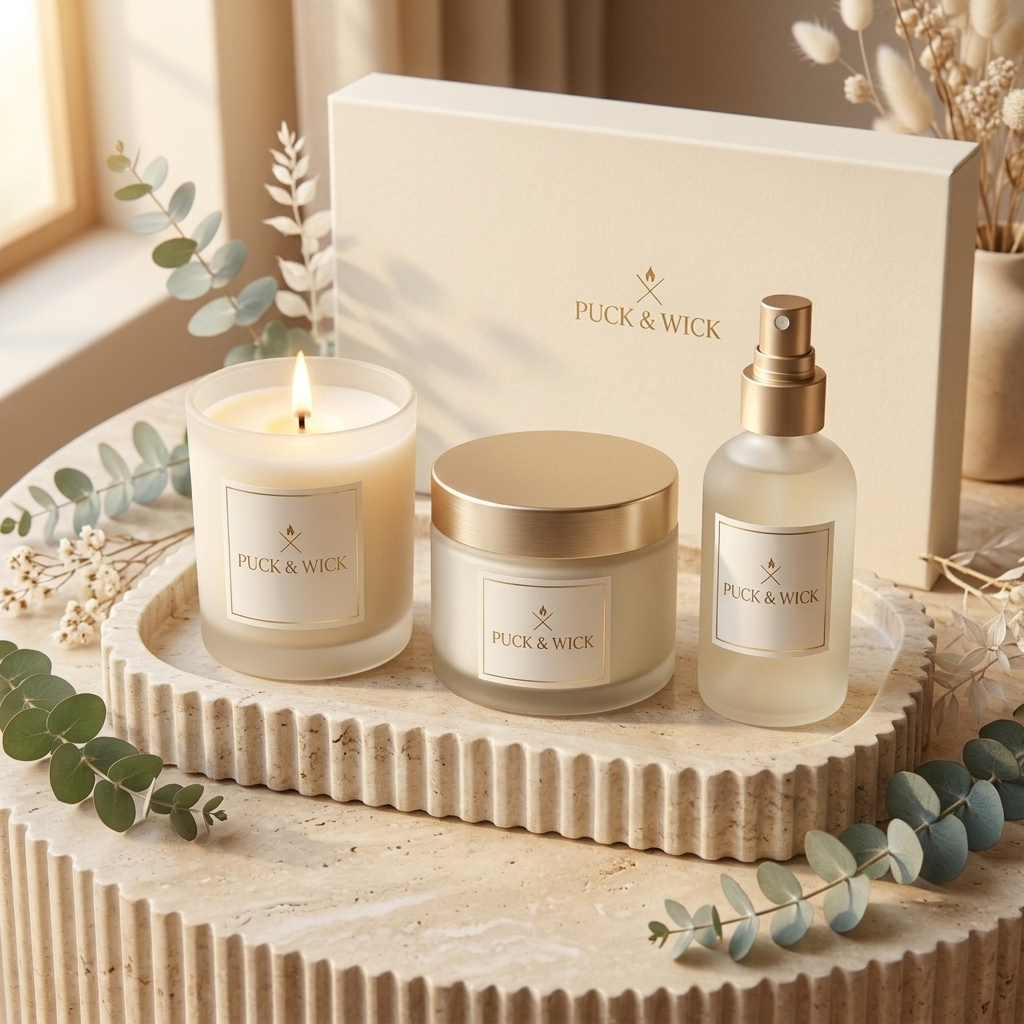
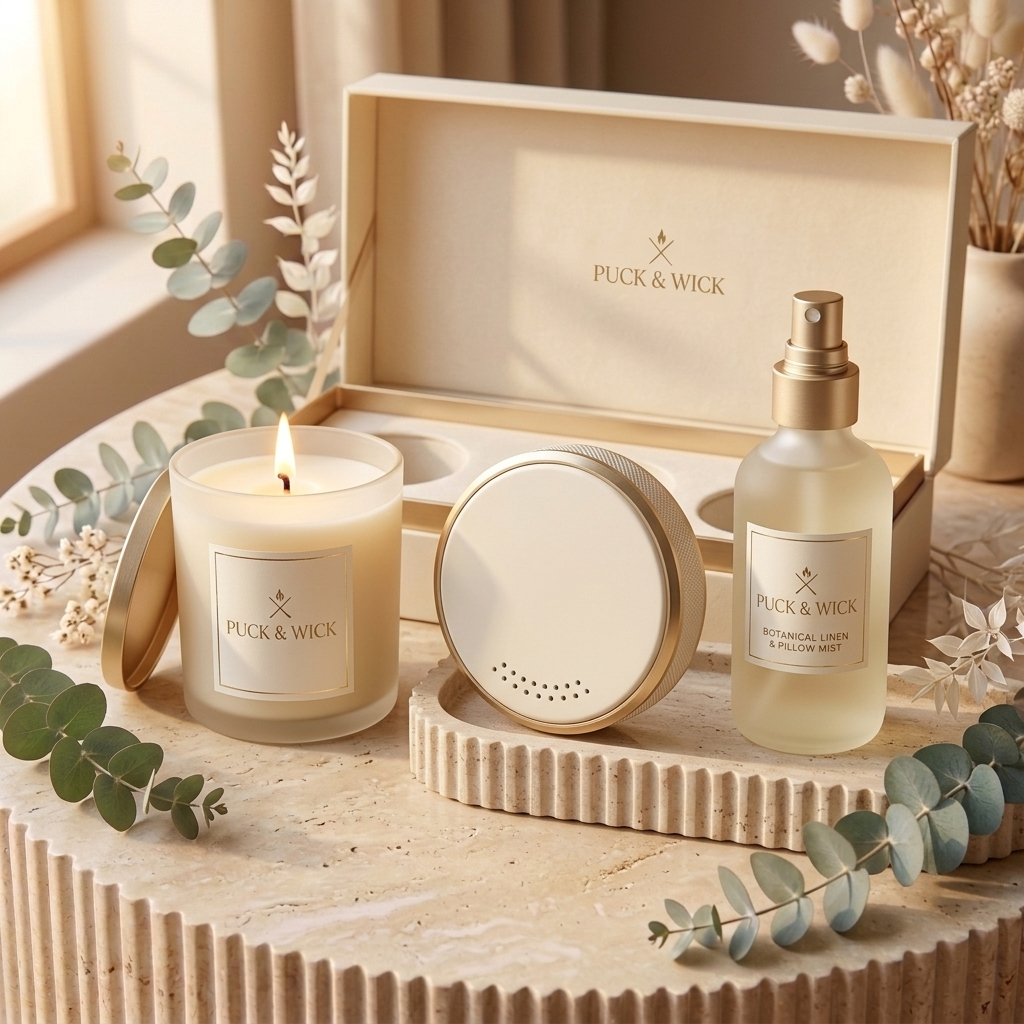
Remove Shea Butter cream, focus Women's Sanctuary on 3.0in White/Ivory Puck in Yoga Bag & Closet, separate individual puck galleries from Exclusive Box lineups (v30)

diff --git a/js/data/products.js b/js/data/products.js
@@ -301,31 +301,31 @@ export const PRODUCTS = [
   },
   {
     id: 'puck-womens-sanctuary',
-    name: "Women's Sanctuary Closet & Tote Puck",
-    tagline: '3.0" Warm Ivory & Champagne-Gold Disc. Activated Coconut Carbon + Lauson-98™.',
+    name: "Women's Sanctuary Workout Tote & Closet Puck",
+    tagline: '3.0" Warm Ivory/White & Champagne-Gold Disc. For Yoga Bags, Gym Totes & Closets.',
     price: 44.00,
     formattedPrice: '$44.00',
     category: ['womens', 'odor_care'],
     productType: 'odor_care',
     genderLine: 'womens',
     genderLabel: 'WOMENS',
-    specUnitLabel: '3.0" Closet Puck',
+    specUnitLabel: '3.0" Sanctuary Puck',
     burnTime: '6+ Months Active',
     weightOz: 4,
     vessel: '3.0" Warm Matte Alabaster-Ivory Anodized Aluminum with Brushed Champagne-Gold Bezel',
     wax: 'Sub-2nm Coconut Charcoal (>1,000 m²/g) + Lauson-98™ Molecular Core (40g Fill)',
     wick: 'Laser-Drilled 18-Port Vapor Diffusion Vent Array',
-    description: 'Designed in our signature Warm Alabaster-Ivory and Brushed Champagne-Gold finish for walk-in closets, Pilates & yoga totes, handbag shelves, and luxury car interiors. Built with the exact same sub-2nm activated coconut carbon (>1,000 m²/g) and proprietary Lauson-98™ vapor-phase complex as our Athlete Puck to permanently neutralize odors without masking perfumes.',
+    description: 'Tailored in our signature Warm Alabaster-Ivory/White and Brushed Champagne-Gold finish for women’s yoga & Pilates workout bags, gym totes, running sneaker shelves, and walk-in closets. Built with the exact same sub-2nm activated coconut carbon (>1,000 m²/g) and proprietary Lauson-98™ vapor-phase complex as our Athlete Puck to permanently eliminate workout and fabric odors with zero masking perfumes.',
     notes: {
       top: ['Lauson-98™ Vapor-Phase Complex', 'Zero Masking Perfumes', 'Hypoallergenic'],
       middle: ['Sub-2nm Activated Coconut Carbon', '>1,000 m²/g Micropore Lattice'],
-      base: ['Destroys Deep Closet & Tote Odor', '6+ Months Continuous Protection']
+      base: ['Yoga Totes, Gym Bags & Closets', '6+ Months Continuous Protection']
     },
     featured: true,
     seasonal: false,
     vesselType: 'ivory',
     photo: 'assets/images/item-puck-women.jpg',
-    subSpecText: '3.0" WARM IVORY PUCK • LAUSON-98™ + CARBON',
+    subSpecText: '3.0" WARM IVORY PUCK • YOGA TOTES & CLOSETS',
     waxSpecSub: 'Lauson-98™ + Carbon Matrix',
     accentColor: '#E5C878'
   },
@@ -390,36 +390,6 @@ export const PRODUCTS = [
     accentColor: '#C5A059'
   },
   {
-    id: 'butter-womens-shea',
-    name: 'Whipped Shea & Cashmere Body Butter',
-    tagline: 'Sanctuary Skin Restoration (6 oz Jar). Triple-Whipped Shea, Jojoba & Santal.',
-    price: 44.00,
-    formattedPrice: '$44.00',
-    category: ['womens', 'odor_care'],
-    productType: 'odor_care',
-    genderLine: 'womens',
-    genderLabel: 'WOMENS',
-    specUnitLabel: '6 oz Glass Jar',
-    burnTime: '6 oz (170 g)',
-    weightOz: 6,
-    vessel: '6 oz Frosted Warm Ivory Wide-Mouth Glass Jar with Champagne-Gold Lid',
-    wax: 'Triple-Whipped Unrefined Shea Butter + Cold-Pressed Golden Jojoba',
-    wick: 'Non-Greasy Cloud Emulsion • Paraben & Phthalate Free',
-    description: 'An ultra-rich, cloud-whipped body butter that melts effortlessly into warm post-shower skin. Crafted with unrefined grade-A shea butter, golden jojoba esters, and vitamin E, scented with our serene Sanctuary notes of white tea bud, spun cashmere, Madagascar vanilla bean, and creamy sandalwood.',
-    notes: {
-      top: ['Sicilian Bergamot Zest', 'White Tea Bud', 'Spun Silk Accord'],
-      middle: ['Warm Cashmere Musk', 'Jasmine Grandiflorum', 'Whipped Shea Cream'],
-      base: ['Madagascar Vanilla Bean', 'Australian Sandalwood', 'Golden Amber']
-    },
-    featured: true,
-    seasonal: false,
-    vesselType: 'ivory',
-    photo: 'assets/images/item-bodybutter-women.jpg',
-    subSpecText: '6 OZ FROSTED IVORY JAR • TRIPLE-WHIPPED SHEA',
-    waxSpecSub: 'Whipped Shea & Jojoba',
-    accentColor: '#E5C878'
-  },
-  {
     id: 'mist-womens-linen',
     name: 'Sanctuary Botanical Linen & Pillow Mist',
     tagline: 'Fine-Mist Atomizer (4 fl oz). Lauson-98™ Fabric Refresher & White Lavender.',
@@ -435,13 +405,13 @@ export const PRODUCTS = [
     vessel: '4 oz Frosted Warm Ivory Glass Bottle with Brushed Champagne-Gold Atomizer',
     wax: 'Botanical Hydrosol Base + Lauson-98™ Molecular Fabric Neutralizer',
     wick: 'Non-Staining Micro-Mist Spray • Safe for Linen, Cashmere & Silk',
-    description: 'Transform bedrooms, walk-in closets, cashmere knits, and travel totes into a five-star sanctuary. Powered by our proprietary Lauson-98™ molecular complex to permanently neutralize fabric odors while leaving a delicate veil of crushed French lavender leaf, white orchid, and sun-bleached driftwood.',
+    description: 'Transform bedrooms, walk-in closets, cashmere knits, and workout totes into a five-star sanctuary. Powered by our proprietary Lauson-98™ molecular complex to permanently neutralize fabric odors while leaving a delicate veil of crushed French lavender leaf, white orchid, and sun-bleached driftwood.',
     notes: {
       top: ['Crushed French Lavender Leaf', 'Petitgrain', 'Lemon Verbena'],
       middle: ['Night-Blooming White Orchid', 'Eucalyptus Dew', 'Sheer Magnolia'],
       base: ['Sun-Bleached Driftwood', 'Ambrette Seed', 'Lauson-98™ Fabric Neutralizer']
     },
-    featured: false,
+    featured: true,
     seasonal: false,
     vesselType: 'ivory',
     photo: 'assets/images/item-mist-women.jpg',
@@ -611,30 +581,70 @@ export function getProductGallerySlides(product, conceptId = 1) {
     ];
   }
 
-  // Other Odor Care & Sanctuary Items
+  if (product.id === 'puck-mens-athlete') {
+    return [
+      {
+        id: 'primary',
+        shortLabel: 'Studio Puck',
+        title: '3.0" Athlete Gear & Locker Puck — Matte-Black & Gold Anodized Hardware',
+        type: 'svg',
+        thumb: primaryPhoto
+      },
+      {
+        id: 'gym_bag',
+        shortLabel: 'In Gear Bag',
+        title: '3.0" Athlete Puck — Drop Directly Into Your Hockey or Gym Duffel Bag',
+        type: 'image',
+        src: 'assets/images/packaging/puck-men-gym-bag.jpg',
+        thumb: 'assets/images/packaging/puck-men-gym-bag.jpg'
+      },
+      {
+        id: 'locker',
+        shortLabel: 'In Locker',
+        title: '3.0" Athlete Puck — Continuous 6+ Month Odor Elimination in Lockers & Closets',
+        type: 'image',
+        src: 'assets/images/packaging/puck-men-locker.jpg',
+        thumb: 'assets/images/packaging/puck-men-locker.jpg'
+      }
+    ];
+  }
+
+  if (product.id === 'puck-womens-sanctuary') {
+    return [
+      {
+        id: 'primary',
+        shortLabel: 'White Puck',
+        title: '3.0" Women’s Sanctuary Puck — Warm Ivory/White & Champagne-Gold Hardware',
+        type: 'svg',
+        thumb: primaryPhoto
+      },
+      {
+        id: 'yoga_bag',
+        shortLabel: 'Yoga & Gym Tote',
+        title: '3.0" Sanctuary Puck — Tuck Into Your Yoga, Pilates, or Workout Tote Bag',
+        type: 'image',
+        src: 'assets/images/packaging/puck-women-yoga-bag.jpg',
+        thumb: 'assets/images/packaging/puck-women-yoga-bag.jpg'
+      },
+      {
+        id: 'closet',
+        shortLabel: 'Closet & Shoes',
+        title: '3.0" Sanctuary Puck — Fresh Protection for Walk-In Closets & Athletic Sneakers',
+        type: 'image',
+        src: 'assets/images/packaging/puck-women-closet.jpg',
+        thumb: 'assets/images/packaging/puck-women-closet.jpg'
+      }
+    ];
+  }
+
+  // Individual Body Wash or Botanical Mist (Focused strictly on the single bottle)
   return [
     {
       id: 'primary',
       shortLabel: 'Studio View',
-      title: `${product.name} — Studio Hardware & Apothecary View`,
+      title: `${product.name} — Individual Full-Size Bottle`,
       type: 'svg',
       thumb: primaryPhoto
-    },
-    {
-      id: 'in_action',
-      shortLabel: 'In Action',
-      title: `${product.name} — Daily Ritual & Gear Action`,
-      type: 'image',
-      src: isIvory ? 'assets/images/box-women-usecase.jpg' : 'assets/images/box-men-usecase.jpg',
-      thumb: isIvory ? 'assets/images/box-women-usecase.jpg' : 'assets/images/box-men-usecase.jpg'
-    },
-    {
-      id: 'collection',
-      shortLabel: 'Full Lineup',
-      title: `${product.name} — Complete Exclusive Box Lineup`,
-      type: 'image',
-      src: isIvory ? 'assets/images/box-women-items-out.jpg' : 'assets/images/box-men-items-out.jpg',
-      thumb: isIvory ? 'assets/images/box-women-items-out.jpg' : 'assets/images/box-men-items-out.jpg'
     }
   ];
 }

diff --git a/index.html b/index.html
@@ -18,7 +18,7 @@
   <meta property="og:site_name" content="Puck &amp; Wick&trade;">
   <meta property="og:url" content="https://puckandwick.com/">
   <meta property="og:title" content="Puck &amp; Wick&trade; | Artisan Soy Candles &amp; Lauson-98&trade; Odor Care">
-  <meta property="og:description" content="Small-batch Virginia soy candles, Sanctuary whipped body care, and Lauson-98™ + Activated Charcoal molecular odor elimination. Founded in Loudoun County, VA.">
+  <meta property="og:description" content="Small-batch Virginia soy candles, Men's &amp; Women's Lauson-98™ + Activated Charcoal Odor Pucks, and Botanical Linen &amp; Body Care. Founded in Loudoun County, VA.">
   <meta property="og:image" content="https://puckandwick.com/assets/images/og-share-banner-v2.png">
   <meta property="og:image:secure_url" content="https://puckandwick.com/assets/images/og-share-banner-v2.png">
   <meta property="og:image:type" content="image/png">
@@ -29,44 +29,44 @@
   <!-- Twitter / X / Discord Card Preview -->
   <meta name="twitter:card" content="summary_large_image">
   <meta name="twitter:title" content="Puck &amp; Wick&trade; | Artisan Soy Candles &amp; Lauson-98&trade; Odor Care">
-  <meta name="twitter:description" content="Small-batch Virginia soy candles, Sanctuary whipped body care, and Lauson-98™ + Activated Charcoal molecular odor elimination.">
+  <meta name="twitter:description" content="Small-batch Virginia soy candles, Men's &amp; Women's Lauson-98™ + Activated Charcoal Odor Pucks, and Botanical Linen &amp; Body Care.">
   <meta name="twitter:image" content="https://puckandwick.com/assets/images/og-share-banner-v2.png">
 
-  <!-- Core Theme & Layout Stylesheets (Cache-Busted v29) -->
-  <link rel="stylesheet" href="css/variables.css?v=29">
-  <link rel="stylesheet" href="css/base.css?v=29">
-  <link rel="stylesheet" href="css/nav.css?v=29">
-  <link rel="stylesheet" href="css/hero.css?v=29">
-  <link rel="stylesheet" href="css/catalog.css?v=29">
-  <link rel="stylesheet" href="css/modal.css?v=29">
-  <link rel="stylesheet" href="css/cart.css?v=29">
-  <link rel="stylesheet" href="css/checkout.css?v=29">
-  <link rel="stylesheet" href="css/box-builder.css?v=29">
-  <link rel="stylesheet" href="css/odor-science.css?v=29">
-  <link rel="stylesheet" href="css/brand-studio.css?v=29">
-  <link rel="stylesheet" href="css/story.css?v=29">
-  <link rel="stylesheet" href="css/stockist.css?v=29">
-  <link rel="stylesheet" href="css/footer.css?v=29">
-  <link rel="stylesheet" href="css/responsive.css?v=29">
+  <!-- Core Theme & Layout Stylesheets (Cache-Busted v30) -->
+  <link rel="stylesheet" href="css/variables.css?v=30">
+  <link rel="stylesheet" href="css/base.css?v=30">
+  <link rel="stylesheet" href="css/nav.css?v=30">
+  <link rel="stylesheet" href="css/hero.css?v=30">
+  <link rel="stylesheet" href="css/catalog.css?v=30">
+  <link rel="stylesheet" href="css/modal.css?v=30">
+  <link rel="stylesheet" href="css/cart.css?v=30">
+  <link rel="stylesheet" href="css/checkout.css?v=30">
+  <link rel="stylesheet" href="css/box-builder.css?v=30">
+  <link rel="stylesheet" href="css/odor-science.css?v=30">
+  <link rel="stylesheet" href="css/brand-studio.css?v=30">
+  <link rel="stylesheet" href="css/story.css?v=30">
+  <link rel="stylesheet" href="css/stockist.css?v=30">
+  <link rel="stylesheet" href="css/footer.css?v=30">
+  <link rel="stylesheet" href="css/responsive.css?v=30">
 
   <!-- Module Cache-Busting Import Map (Forces Fresh Fetch of All ES Modules) -->
   <script type="importmap">
   {
     "imports": {
-      "./js/app.js": "./js/app.js?v=29",
-      "./js/data/products.js": "./js/data/products.js?v=29",
-      "./js/data/box-data.js": "./js/data/box-data.js?v=29",
-      "./js/data/logos.js": "./js/data/logos.js?v=29",
-      "./js/utils/svg-assets.js": "./js/utils/svg-assets.js?v=29",
-      "./js/modules/navigation.js": "./js/modules/navigation.js?v=29",
-      "./js/modules/catalog.js": "./js/modules/catalog.js?v=29",
-      "./js/modules/modal.js": "./js/modules/modal.js?v=29",
-      "./js/modules/cart.js": "./js/modules/cart.js?v=29",
-      "./js/modules/checkout.js": "./js/modules/checkout.js?v=29",
-      "./js/modules/box-builder.js": "./js/modules/box-builder.js?v=29",
-      "./js/modules/brand-studio.js": "./js/modules/brand-studio.js?v=29",
-      "./js/modules/jar-mockup.js": "./js/modules/jar-mockup.js?v=29",
-      "./js/modules/payment-adapters.js": "./js/modules/payment-adapters.js?v=29"
+      "./js/app.js": "./js/app.js?v=30",
+      "./js/data/products.js": "./js/data/products.js?v=30",
+      "./js/data/box-data.js": "./js/data/box-data.js?v=30",
+      "./js/data/logos.js": "./js/data/logos.js?v=30",
+      "./js/utils/svg-assets.js": "./js/utils/svg-assets.js?v=30",
+      "./js/modules/navigation.js": "./js/modules/navigation.js?v=30",
+      "./js/modules/catalog.js": "./js/modules/catalog.js?v=30",
+      "./js/modules/modal.js": "./js/modules/modal.js?v=30",
+      "./js/modules/cart.js": "./js/modules/cart.js?v=30",
+      "./js/modules/checkout.js": "./js/modules/checkout.js?v=30",
+      "./js/modules/box-builder.js": "./js/modules/box-builder.js?v=30",
+      "./js/modules/brand-studio.js": "./js/modules/brand-studio.js?v=30",
+      "./js/modules/jar-mockup.js": "./js/modules/jar-mockup.js?v=30",
+      "./js/modules/payment-adapters.js": "./js/modules/payment-adapters.js?v=30"
     }
   }
   </script>
@@ -192,7 +192,7 @@
           </div>
 
           <p class="hero-tagline" data-testid="hero-tagline">
-            Hand-poured <strong>100% American soy candles</strong> &amp; <strong>body care</strong>—plus <strong>Lauson-98&trade; odor pucks</strong> engineered after 20 years of hockey to destroy tough gear &amp; shoe odor.
+            Hand-poured <strong>100% American soy candles</strong>, <strong>Men&rsquo;s &amp; Women&rsquo;s Lauson-98&trade; odor pucks</strong>, and <strong>botanical care</strong>—engineered after 20 years of hockey to destroy tough workout, gear &amp; closet odor.
           </p>
 
           <!-- 3-Photo Bento Category Shortcuts -->
@@ -227,7 +227,7 @@
 
           <div class="hero-actions">
             <a href="#shop" class="btn btn-gold btn-lg" data-testid="hero-cta-shop">
-              <span>Shop All 16 Items</span>
+              <span>Shop All 15 Items</span>
               <svg xmlns="http://www.w3.org/2000/svg" viewBox="0 0 24 24" fill="none" stroke="currentColor" stroke-width="2" stroke-linecap="round" stroke-linejoin="round" aria-hidden="true"><path d="M5 12h14"/><path d="m12 5 7 7-7 7"/></svg>
             </a>
             <a href="#exclusive-boxes" class="btn btn-outline btn-lg" data-testid="hero-cta-boxes">
@@ -616,6 +616,6 @@
   </footer>
 
   <!-- Application Bootstrap Module -->
-  <script type="module" src="js/app.js?v=29"></script>
+  <script type="module" src="js/app.js?v=30"></script>
 </body>
 </html>

diff --git a/js/data/box-data.js b/js/data/box-data.js
@@ -75,14 +75,14 @@ export const EXCLUSIVE_BOX_EDITIONS = {
     id: 'women_luxe',
     badge: 'Warm Frosted Ivory & Gold • Sanctuary #98 Edition',
     title: "Women's Sanctuary Exclusive Box",
-    subtitle: '10 oz Frosted Ivory Candle + 6 oz Whipped Shea Body Butter + 4 oz Botanical Linen Mist',
+    subtitle: '10 oz Frosted Ivory Candle + 3.0" White/Ivory Sanctuary Puck + 4 oz Botanical Linen Mist',
     price: 98.00,
     compareAtValue: 124.00,
     savings: 26.00,
     defaultCandleId: 'candle-top-shelf',
     photo: 'assets/images/box-women-open.jpg',
     description:
-      'Crafted in Warm Frosted Ivory & Champagne Gold (#98 Founder Tribute). Pairs your choice of 10 oz soy candle with our 6 oz Whipped Shea & Cashmere Body Butter and 4 oz Lauson-98™ Botanical Linen Mist.',
+      'Crafted in Warm Frosted Ivory & Champagne Gold (#98 Founder Tribute). Pairs your choice of 10 oz soy candle with our 3.0" Warm Ivory/White Lauson-98™ + Carbon Workout Tote & Closet Puck and 4 oz Lauson-98™ Botanical Linen Mist.',
     bundledItems: {
       candle: {
         role: '1x Full-Size Hand-Poured Soy Candle (10 oz Frosted Ivory Vessel)',
@@ -90,9 +90,9 @@ export const EXCLUSIVE_BOX_EDITIONS = {
         retailValue: '$36.00'
       },
       puck: {
-        title: '6 oz Whipped Shea & Cashmere Body Butter (Sanctuary Care)',
-        detail: 'Triple-whipped organic shea butter, cold-pressed jojoba & white tea extract for velvet skin hydration (Botanical Linen Refresher tier).',
-        notes: 'Notes: Silver Needle White Tea & Bergamot • Whipped Raw Shea & Jasmine • Cashmere Woods & Vanilla Bean',
+        title: '3.0" Warm Ivory/White & Gold Sanctuary Workout Tote & Closet Puck',
+        detail: 'Vented warm ivory & champagne-gold anodized shell with >1,000 m²/g coconut carbon & Lauson-98™ molecular core for yoga bags, workout totes & walk-in closets.',
+        notes: 'Active Matrix: Sub-2nm Coconut Carbon (>1,000 m²/g) • Lauson-98™ Proprietary Vapor-Phase Neutralizer • Zero Perfumes',
         retailValue: '$44.00'
       },
       bodyWash: {
@@ -109,7 +109,7 @@ export const EXCLUSIVE_BOX_EDITIONS = {
         shortLabel: 'Open Box',
         title: 'Warm Alabaster-Ivory & Champagne-Gold Magnetic Box (Open)',
         image: 'assets/images/box-women-open.jpg',
-        description: 'Warm cream suede-touch foam cradles your 10 oz Frosted Ivory Soy Candle, 6 oz Whipped Shea Body Butter, and 4 oz Botanical Linen Mist.'
+        description: 'Warm cream suede-touch foam cradles your 10 oz Unlit Frosted Ivory Soy Candle, 3.0" Warm Ivory/White Sanctuary Puck, and 4 oz Botanical Linen Mist.'
       },
       {
         id: 'closed',
@@ -125,15 +125,15 @@ export const EXCLUSIVE_BOX_EDITIONS = {
         shortLabel: '3 Items',
         title: 'All 3 Full-Size Women’s Sanctuary Components ($124 Value)',
         image: 'assets/images/box-women-items-out.jpg',
-        description: '(1) 10 oz Soy Candle in Frosted Ivory Glass ($36), (2) 6 oz Whipped Shea Body Butter ($44), and (3) 4 oz Lauson-98™ Linen Mist ($44).'
+        description: '(1) 10 oz Soy Candle in Frosted Ivory Glass ($36), (2) 3.0" Warm Ivory/White Sanctuary Workout Tote & Closet Puck ($44), and (3) 4 oz Lauson-98™ Linen Mist ($44).'
       },
       {
         id: 'usecase',
         step: '04 • IN ACTION',
         shortLabel: 'In Action',
-        title: 'Closet & Linens to Spa Vanity to Bedside Sanctuary',
+        title: 'Yoga Tote & Closet to Linens to Bedside Sanctuary',
         image: 'assets/images/box-women-usecase.jpg',
-        description: 'Mist bedding or gym totes with Lauson-98™ Botanical Spray, hydrate skin with Whipped Shea Butter, and light your Frosted Ivory Candle.'
+        description: 'Tuck the 3.0" Warm Ivory Sanctuary Puck into your yoga or workout tote bag, refresh fabrics with Lauson-98™ Botanical Mist, and light your Frosted Ivory Candle.'
       }
     ]
   }

diff --git a/js/modules/box-builder.js b/js/modules/box-builder.js
@@ -13,7 +13,7 @@ import { getIcon, getCharcoalScienceSvg, getLausonScienceSvg } from '../utils/sv
 function getBoxPresentationSvg(edition, candleProduct, conceptId = 1, customPhotoHref = '') {
   const isWomen = edition === 'women_luxe';
   const accentStroke = isWomen ? '#E2C178' : '#C5A059';
-  const puckLabel = isWomen ? 'WHIPPED SHEA BUTTER' : 'LAUSON-98™ PUCK';
+  const puckLabel = isWomen ? '3.0" SANCTUARY PUCK' : 'LAUSON-98™ PUCK';
   const washLabel = isWomen ? 'BOTANICAL LINEN MIST' : 'ATHLETE BODY WASH';
   const candleName = (candleProduct?.name || 'TOP SHELF').toUpperCase();
   const editionTitle = isWomen ? "WOMEN'S SANCTUARY CURATION" : "MEN'S / ATHLETE EDITION";
@@ -42,7 +42,7 @@ function getBoxPresentationSvg(edition, candleProduct, conceptId = 1, customPhot
 
   const boxPhotoHref = customPhotoHref || (isWomen ? 'assets/images/box-women-open.jpg' : 'assets/images/box-men-open.jpg');
   const subFooterText = isWomen
-    ? 'INCLUDES 6 OZ WHIPPED SHEA BUTTER &amp; 4 OZ BOTANICAL MIST • SAVE $26'
+    ? 'INCLUDES 3.0" IVORY SANCTUARY PUCK &amp; 4 OZ BOTANICAL MIST • SAVE $26'
     : 'INCLUDES CHARCOAL + LAUSON-98™ PUCK &amp; 8 OZ BODY WASH • SAVE $26';
 
   return `
